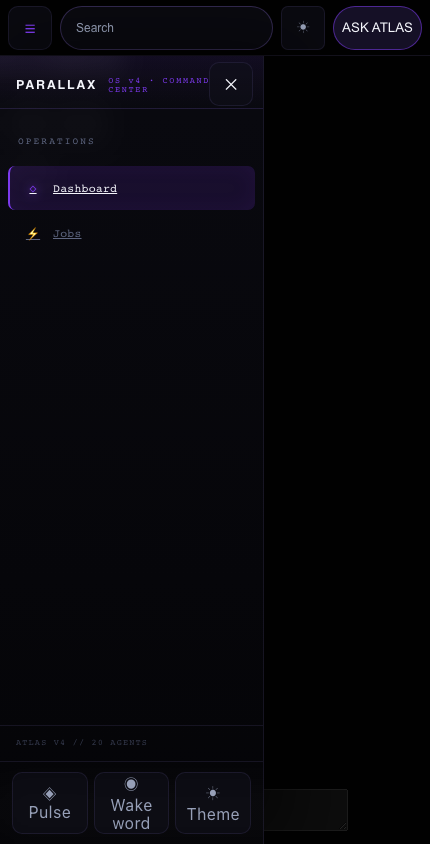
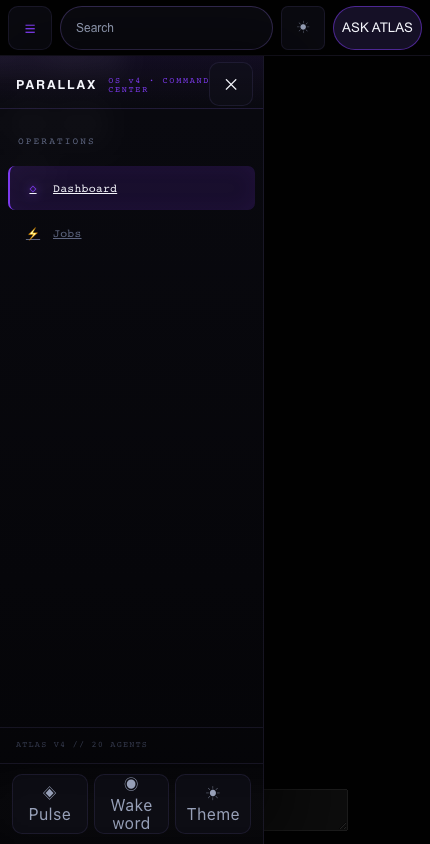
fix(cc): give the tablet quick controls their chrome, and stop styling selectors that do not exist
At 768-1024 the quick row was display:grid but the control's border, background, padding and icon
size were declared only at <=767, so the rail showed three blank, unnamed boxes. The chrome now
lives in the shared band; only the label visibility differs. Section headers keep their 44px floor
across the whole drawer range (641-767 was missing it), the invented .task-actions selector is gone
while .pg-head-act stays because Instrument.tsx really renders it, and Theme is a pressed toggle
again so its state is both announced and painted.

The harness now measures the control - name, size, chrome, icon - instead of its display value,
which is what certified the blank box last round.

Changed region(s): [[0.0302, 0.8626, 0.1814, 0.9858], [0.2419, 0.8626, 0.393, 0.9242], [0.4233, 0.8934, 0.5744, 0.9242]]

diff --git a/src/app/command-center/CommandCenterClientLayout.tsx b/src/app/command-center/CommandCenterClientLayout.tsx
@@ -397,13 +397,16 @@ function Cockpit({
            range it hides them in, not only on phones. On the 66px rail they stack icon-only. */
         .po-side-quick { display: none; }
         @media (max-width: 1024px) {
+          /* Every bit of the control's chrome belongs here, in the shared band: defining it only
+             at <=767 left the tablet rail showing three blank, unnamed boxes. */
           .po-side-quick { display: grid; grid-template-columns: 1fr; gap: 6px; padding: 8px 8px 10px; border-top: 1px solid var(--line); }
-          .po-shell .po-quick { min-height: 44px; font-size: 0; }
+          .po-shell .po-quick { display: inline-flex; flex-direction: column; align-items: center; justify-content: center; gap: 4px; min-height: 52px; min-width: 44px; border-radius: 10px; border: 1px solid var(--line); background: var(--panel-glass); color: var(--t-mid); font: 600 10px/1.2 var(--f-sans, inherit); letter-spacing: 0.04em; cursor: pointer; }
+          .po-shell .po-quick > span[aria-hidden] { font-size: 16px; line-height: 1; }
           .po-shell .po-quick .lbl { display: none; }
+          .po-shell .po-quick[aria-pressed='true'], .po-shell .po-quick[data-theme-state='light'] { color: var(--accent); border-color: color-mix(in oklab, var(--accent) 45%, var(--line)); }
         }
         @media (max-width: 767px) {
           .po-side-quick { grid-template-columns: repeat(3, 1fr); padding: 10px 12px; }
-          .po-shell .po-quick { font-size: 10px; }
           .po-shell .po-quick .lbl { display: block; }
         }
         @media (max-width: 767px) {
@@ -431,12 +434,10 @@ function Cockpit({
             padding-bottom: env(safe-area-inset-bottom);
           }
           .po-nav-overlay { z-index: 65 !important; top: calc(56px + env(safe-area-inset-top)); }
-          .po-side-quick { display: grid; grid-template-columns: repeat(3, 1fr); gap: 6px; padding: 10px 12px; border-top: 1px solid var(--line); }
-          .po-shell .po-quick { display: inline-flex; flex-direction: column; align-items: center; justify-content: center; gap: 4px; min-height: 52px; border-radius: 10px; border: 1px solid var(--line); background: var(--panel-glass); color: var(--t-mid); font: 600 10px/1.2 var(--f-sans, inherit); letter-spacing: 0.04em; cursor: pointer; }
-          .po-shell .po-quick[aria-pressed='true'] { color: var(--accent); border-color: color-mix(in oklab, var(--accent) 45%, var(--line)); }
           .po-side-head { padding-right: 56px; }
           .po-side-close { display: grid; position: absolute; top: 6px; right: 10px; width: 44px; height: 44px; place-items: center; z-index: 2; border-radius: 10px; border: 1px solid var(--line); background: var(--panel-glass); color: var(--t-hi); font: inherit; cursor: pointer; }
-          .po-shell .po-navitem { min-height: 44px; }
+          .po-shell .po-navitem, .po-shell .po-nav-sec, .po-shell .task-quick, .po-shell .pg-btn { min-height: 44px; }
+          .po-shell .po-nav-sec { min-width: 44px; }
           .po-shell .atlas-briefing { top: calc(56px + env(safe-area-inset-top)) !important; width: 100vw !important; max-width: 100vw !important; z-index: 80 !important; padding-bottom: env(safe-area-inset-bottom); }
           .po-shell .atlas-briefing button { min-width: 44px; min-height: 44px; }
         }
@@ -464,7 +465,6 @@ function Cockpit({
           .po-shell .task-quick,
           .po-shell .pg-btn { min-height: 44px; }
           .po-shell .po-side-close, .po-shell .po-quick { min-width: 44px; }
-          .po-shell .pg-head-act a { min-height: 44px; display: inline-flex; align-items: center; }
           .po-shell .chat-input-area button, .po-shell .chat-header-bar button { min-width: 44px; }
           .po-shell .stage .orbit-node, .po-shell .stage .orbit-chip { display: none !important; }
           .po-shell .task-head { flex-wrap: wrap; }

diff --git a/src/components/command-center/__tests__/shell-invariants.test.ts b/src/components/command-center/__tests__/shell-invariants.test.ts
@@ -83,9 +83,10 @@ describe('touch targets are targeted, not blanket', () => {
   });
 
   it('names only classes that exist, so the floor is not decorative', () => {
-    for (const dead of ['task-actions', 'pg-head-act button']) {
-      expect(shellCss, `${dead} is styled but appears in no page`).not.toMatch(new RegExp(dead));
-    }
+    // `.task-actions` was invented by an earlier draft and exists in no page; `.pg-head-act` is
+    // real (po/Instrument.tsx renders it), so only the invented one is forbidden.
+    expect(shellCss).not.toMatch(/task-actions/);
+    expect(shellCss).toMatch(/\.pg-head-act/);
   });
 });
 
@@ -137,7 +138,7 @@ describe('secondary controls stay reachable on mobile and tablet', () => {
   it('shows the quick controls across the whole range the HUD hides its copies', () => {
     // The HUD hides pulse/wake/theme at <=1024. If the drawer only restores them <=767, every
     // iPad width has no path to any of the three.
-    const flat = shellCss.replace(/\s+/g, ' ');
+    const flat = shellCss.replace(/\/\*[\s\S]*?\*\//g, '').replace(/\s+/g, ' ');
     expect(flat, 'the quick row is not shown in the <=1024 range the HUD hides its copies')
       .toMatch(/@media \(max-width: 1024px\) \{ \.po-side-quick \{ display: grid/);
   });

diff --git a/src/components/command-center/Sidebar.tsx b/src/components/command-center/Sidebar.tsx
@@ -314,7 +314,7 @@ export default function Sidebar({
             onClick={() => {
               // the dock paints below the drawer overlay, so hand the screen back to it
               window.dispatchEvent(new CustomEvent('cc:toggle-pulse'));
-              setMobileOpen(false);
+              if (isPhone) setMobileOpen(false);
             }}
           >
             <span aria-hidden>◈</span><span className="lbl">Pulse</span>
@@ -326,7 +326,7 @@ export default function Sidebar({
             aria-pressed={wakeEnabled}
             onClick={() => {
               window.dispatchEvent(new CustomEvent('cc:toggle-wake'));
-              setMobileOpen(false);
+              if (isPhone) setMobileOpen(false);
             }}
           >
             <span aria-hidden>◉</span><span className="lbl">Wake word</span>
@@ -334,9 +334,9 @@ export default function Sidebar({
           <button
             type="button"
             className="po-quick"
-            aria-label={`Theme: ${theme}`}
+            aria-label="Light theme"
+            aria-pressed={theme === 'light'}
             onClick={toggleTheme}
-            data-theme-state={theme}
           >
             <span aria-hidden>☀</span><span className="lbl">Theme</span>
           </button>

diff --git a/src/components/command-center/__tests__/Sidebar.mobile.test.tsx b/src/components/command-center/__tests__/Sidebar.mobile.test.tsx
@@ -131,5 +131,7 @@ describe('mobile drawer', () => {
     // come from aria-label or the control is anonymous exactly where it matters most.
     expect(screen.getByRole('button', { name: /pulse/i })).toHaveAttribute('aria-label');
     expect(screen.getByRole('button', { name: /wake word/i })).toHaveAttribute('aria-label');
+    // Theme is a two-state toggle, so its state is pressed, not a label that has to be re-read.
+    expect(screen.getByRole('button', { name: /light theme/i })).toHaveAttribute('aria-pressed');
   });
 });

diff --git a/ops-handoff/CC-MOBILE-UX-REMEDIATION-2026-11-15.md b/ops-handoff/CC-MOBILE-UX-REMEDIATION-2026-11-15.md
@@ -10,18 +10,18 @@ nothing deployed.
 |---|---|---|---|
 | 1 | `viewportFit: "cover"` was added to the **root** layout, so every marketing route ran under the notch with no safe-area handling anywhere outside Command Center | Reverted on the root; the Command Center keeps its own scoped contract | `shell-invariants`: root has no `viewportFit`, CC does, and a grep proves no `safe-area-inset` exists outside `command-center/`. Rendered `/` carries `width=device-width, initial-scale=1, maximum-scale=5` and **no** `viewport-fit`. `marketing-home-{390,1440}.png` |
 | 2 | Chat composer pushed ~38px below the fold whenever the alert ticker was mounted: the pane sized itself from `100dvh - 56px` while its container gained the ticker's 38px | Pane gives back the ticker at both breakpoints (94px phone, 102px tablet), and the desktop pane now accounts for the 64px HUD it previously ignored (an 8px overflow that predates this PR) | Harness measures the composer bottom at 320/375/390/430/768/1024/1440, **with and without** the ticker; all sit at or inside the viewport |
-| 3 | Pulse and wake-word unreachable at ≤1024 with no alternative; theme had no in-PWA path | The drawer carries functional **Pulse, Wake word and Theme** controls across the **whole 0–1024 band** the HUD hides its copies in: three across in the phone drawer, stacked icon-only on the 66px tablet rail, hidden above 1024 where the HUD shows its own. Real handlers, `aria-pressed` from shell state, and pressing one hands the screen back to what it opened | `Sidebar.mobile.test`: each control fires its intent, reflects pressed state, and closes the drawer. Harness: visible at 320/375/390/430/768/1024, hidden at 1440 |
+| 3 | Pulse and wake-word unreachable at ≤1024 with no alternative; theme had no in-PWA path | The drawer carries functional **Pulse, Wake word and Theme** across the **whole 0–1024 band** the HUD hides its copies in: three across in the phone drawer, stacked icon-only on the 66px tablet rail, hidden above 1024. The chrome (border, background, padding, icon size) is defined in the shared band, not only at ≤767 — an earlier attempt left the tablet rail with three blank unnamed boxes — and each control carries an `aria-label`, with `aria-pressed` for Pulse, Wake and the light-theme toggle | `Sidebar.mobile.test`: intent fires, pressed state and labels asserted. Harness at every width ≤1024: named, ≥44px, painted chrome, icon ≥14px — not just `display !== none` |
 | 4 | Overlay (z75) sat above the HUD (z70), and the drawer (z80) covered the menu button, so the menu opened the drawer and could never close it | Stacking is now content < overlay 65 < HUD 70 < briefing 80 < drawer 85, and the drawer starts **below** the HUD (`top: 56px + safe-area`) so the menu stays a live toggle | Harness hit-tests the menu's own centre **with the drawer open** at 5 phone widths: the menu button is the topmost element every time. HUD reports `aria-expanded` and swaps its label |
 | 5 | Closed drawer stayed in the tab order; no Escape; no focus restoration | `inert` + `aria-hidden` on the closed drawer (phone widths only, never on the desktop rail), Escape closes it, focus moves to the close control on open and **returns to the menu button on close — including on iOS, where `<body>` is the active element after a tap and is now treated as "no opener"**. The restore is armed only by a real open→close transition, so a phone page load no longer steals focus | `Sidebar.mobile.test`: inert when closed, Escape closes and refocuses the menu, no focus theft on load, never inert above 768px |
-| 6 | Blanket `button { min-height: 44px }` inflated the 26px rail dividers and turned dense inline controls into clipped squares | Replaced with targeted selectors that name classes which exist: icon buttons, nav rows and section headers (44px across the whole drawer range), quick controls, filter rows, chat composer buttons, `.pg-btn`, and `.task-quick` — the task board's quick actions that were 17px before. Rail dividers and deliberately compact inline controls are excluded | Harness: rail divider 17–24px (not 44); task quick actions 44px; a deliberately compact inline control stays compact; menu and quick controls ≥44 |
+| 6 | Blanket `button { min-height: 44px }` inflated the 26px rail dividers and turned dense inline controls into clipped squares | Replaced with targeted selectors that name classes which exist: icon buttons, nav rows and section headers from 641px down (44px), quick controls, filter rows, chat composer buttons, `.pg-btn`, and `.task-quick` — the task board's quick actions that were 17px before. Rail dividers and deliberately compact inline controls are excluded | Harness: rail divider 17–24px (not 44); task quick actions 44px; a compact inline control stays compact; menu and quick controls ≥44 |
 
 ## Evidence
 
-* `npx vitest run` — **929 passed, 4 skipped** (was 901/4 at the reviewed head; the 28 new tests are
-  the two files below).
+* `npx vitest run` — **929 passed, 4 skipped** (was 901/4 at the reviewed head; the **26** new tests
+  are the two files below).
 * `npm run lint` — 0 errors, 192 warnings (191 pre-existing + 0 from this work).
 * `npx tsc --noEmit` — clean. `npm run build` — clean.
-* `node scripts/cc-shell-harness.mjs --shots` — **106 checks, 0 failed**, at
+* `node scripts/cc-shell-harness.mjs --shots` — **184 checks, 0 failed**, at
   320/375/390/430/768/1024/1440, with the alert ticker mounted and removed.
 * Screenshots: `ops-handoff/cc-mobile-ux-remediation/` (`shell-*`, `drawer-open-*`,
   `marketing-home-*`).
@@ -54,6 +54,8 @@ Type still require the owner's iPhone — unchanged from the author's original a
 
 ## Still open (not blocking, not fixed here)
 
+* `pg-head-act` is real (`po/Instrument.tsx` and three other components render it) and stays
+  styled; an earlier draft of this note wrongly listed it as dead.
 * `/leads/[leadId]` still uses a fixed `1fr 1fr` grid and `/projects/[slug]` a `240px 1fr` when a doc
   is open; both were outside this PR's capture and remain unverified on a phone.
 * The Signal Wire network canvas is hidden at ≤1024 rather than shrunk, and its roster/feed separator
